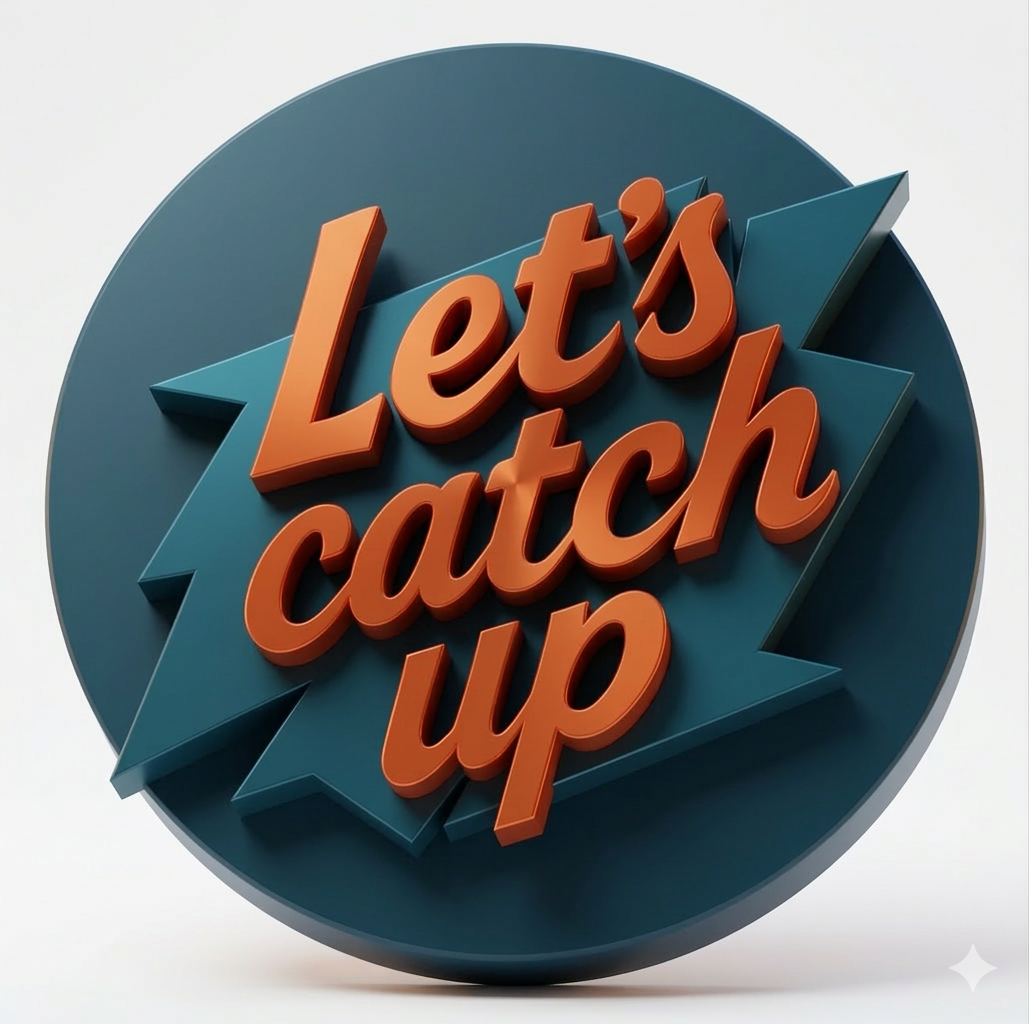
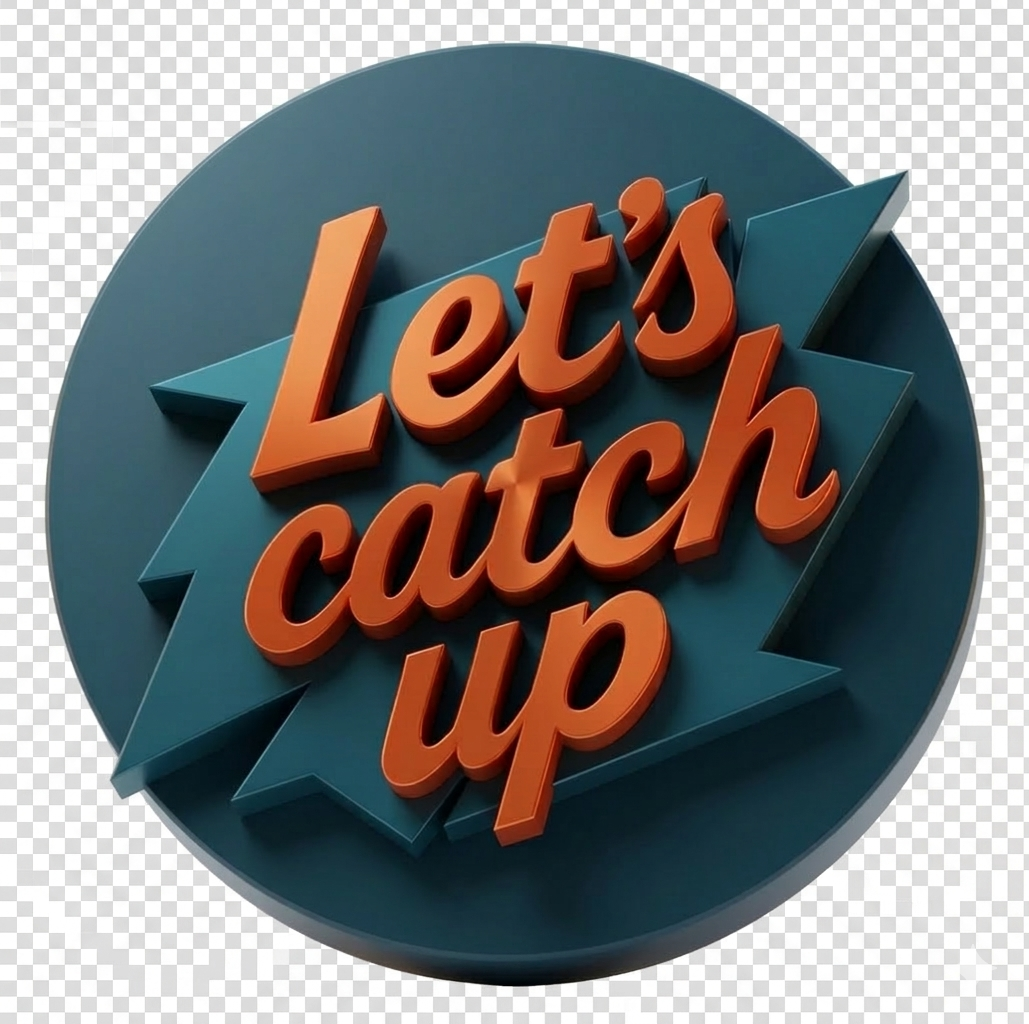
refresh the image

diff --git a/src/components/layout/Navbar.tsx b/src/components/layout/Navbar.tsx
@@ -188,10 +188,12 @@ export function Navbar() {
                 </Button>
               </SheetTrigger>
               <SheetContent side="left" className="bg-[rgb(15,21,61)] border-white/10 backdrop-blur-2xl w-[85%] sm:w-[400px] p-0">
+                {/* Accessibility Headers */}
                 <SheetHeader className="sr-only">
                   <SheetTitle>Navigation Menu</SheetTitle>
                   <SheetDescription>Main navigation links for the Let's Catch Up platform.</SheetDescription>
                 </SheetHeader>
+                
                 <div className="flex flex-col h-full p-0 relative overflow-hidden">
                   <div className="absolute top-[-100px] left-[-100px] w-64 h-64 bg-accent/10 rounded-full blur-[80px] pointer-events-none" />
                   <div className="absolute bottom-[-100px] right-[-100px] w-64 h-64 bg-primary/10 rounded-full blur-[80px] pointer-events-none" />

diff --git a/src/components/home/Hero.tsx b/src/components/home/Hero.tsx
@@ -64,7 +64,7 @@ export function Hero() {
             </motion.div>
           </div>
 
-          {/* Right Column: Dynamic Brand Logo Animation */}
+          {/* Right Column: Brand Image (image.png) with Animation */}
           <motion.div
             initial={{ opacity: 0, scale: 0.9 }}
             animate={{ opacity: 1, scale: 1 }}
